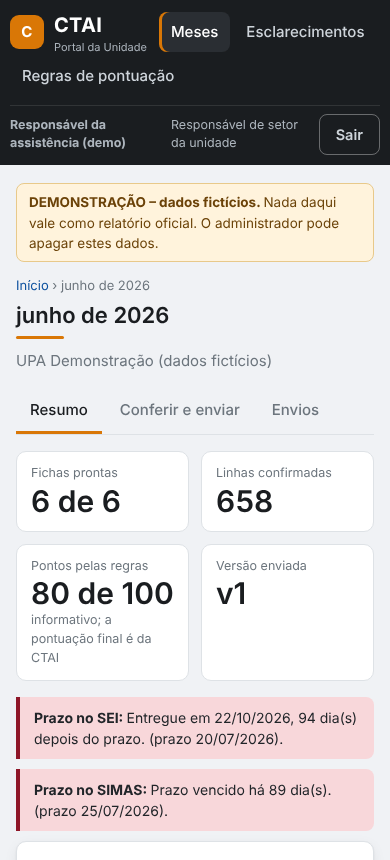
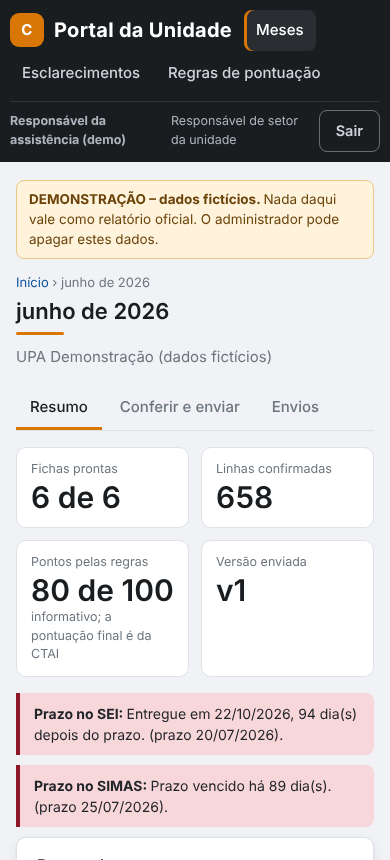
Etapa 1: menu Unidades/Editor de Documentos/Mensagens, unidades agrupadas por tipo com busca, nomes sem CTAI repetido, Regras e Auditoria só na gestão; testes independentes do fuso
Claude-Session: https://claude.ai/code/session_01TePQBrxAiH7ZoxMsBLHw5s

diff --git a/public/js/ctai.js b/public/js/ctai.js
@@ -11,17 +11,37 @@
   const pdfLink = (url, rotulo) => h('a', { href: url, target: '_blank', rel: 'noopener' }, rotulo || 'Abrir PDF');
 
   // ---------- Painel ----------
-  async function painel() {
-    const r = await api('GET', '/api/ctai/contratos');
-    const pareceres = await api('GET', '/api/ctai/pareceres');
-    montar(h('div', { class: 'topo' }, h('div', null, h('h1', null, 'Painel da CTAI'), h('p', null, 'Envios recebidos, divergências abertas e pareceres em andamento.'))),
-      r.contratos.map((c) => window.CTAI.recolher('painel:' + c.contrato_id,
+  const cartaoUnidade = (c) => window.CTAI.recolher('painel:' + c.contrato_id,
         h('span', null, c.unidade, ' ', c.demo ? selo('demonstração', 'demo') : null),
         h('span', null, c.competencias.length + ' mês(es) · ' + c.competencias.reduce((n, k) => n + (k.divergenciasAbertas || 0), 0) + ' divergência(s) aberta(s) ', c.decisoesAbertas ? selo(c.decisoesAbertas + ' dúvida(s) de regra', 'atencao') : null),
         h('div', null,
           h('p', { class: 'mudo peq', style: 'margin-top:0' }, c.oss + ' · ' + (c.numero_cg || ''), c.decisoesAbertas ? [' · ', h('a', { href: '#/regras/' + c.contrato_id }, 'ver dúvidas de regra')] : null),
         tabela([{ t: 'Mês' }, { t: 'Situação' }, { t: 'Envio' }, { t: 'Recebido em' }, { t: 'Prazos' }, { t: 'Divergências abertas', n: true }, { t: '' }],
-          c.competencias.map((k) => [fmt.comp(k.competencia_id) + (k.mes_implantacao ? ' (implantação)' : ''), selo(k.status, SITU[k.status] || ''), k.versaoEnvio ? h('span', null, 'v' + k.versaoEnvio, k.seiAlertas ? [' ', h('a', { href: '#/c/' + k.cid + '/envios', title: 'Alerta entre o sistema e o SEI' }, selo('SEI: ' + k.seiAlertas + ' alerta(s)', 'atencao'))] : null) : '—', fmt.data(k.recebido_em), k.prazos ? selo(k.prazos.texto, k.prazos.nivel === 'alta' ? 'alta' : (k.prazos.nivel === 'atencao' ? 'atencao' : (k.prazos.nivel === 'ok' ? 'ok' : ''))) : '—', String(k.divergenciasAbertas), h('a', { href: '#/c/' + k.cid }, 'Abrir')]))))),
+          c.competencias.map((k) => [fmt.comp(k.competencia_id) + (k.mes_implantacao ? ' (implantação)' : ''), selo(k.status, SITU[k.status] || ''), k.versaoEnvio ? h('span', null, 'v' + k.versaoEnvio, k.seiAlertas ? [' ', h('a', { href: '#/c/' + k.cid + '/envios', title: 'Alerta entre o sistema e o SEI' }, selo('SEI: ' + k.seiAlertas + ' alerta(s)', 'atencao'))] : null) : '—', fmt.data(k.recebido_em), k.prazos ? selo(k.prazos.texto, k.prazos.nivel === 'alta' ? 'alta' : (k.prazos.nivel === 'atencao' ? 'atencao' : (k.prazos.nivel === 'ok' ? 'ok' : ''))) : '—', String(k.divergenciasAbertas), h('a', { href: '#/c/' + k.cid }, 'Abrir')]))));
+  const TIPOS = [['HOSPITAL', 'Hospitais'], ['UPA', 'UPAs'], ['UPAE', 'UPAEs']];
+  const semAcento = (t) => String(t || '').normalize('NFD').replace(/[\u0300-\u036f]/g, '').toLowerCase();
+  // Unidades agrupadas por tipo, em ordem alfabética, com busca por nome.
+  function listaUnidades(contratos, cartao) {
+    const busca = h('input', { type: 'search', id: 'un-busca', placeholder: 'Buscar unidade pelo nome…', 'aria-label': 'Buscar unidade' });
+    const grupos = TIPOS.map(([t, nome]) => [nome, contratos.filter((c) => (c.tipo || '') === t)]).concat([['Outras unidades', contratos.filter((c) => !TIPOS.some(([t]) => t === (c.tipo || '')))]]).filter(([, l]) => l.length);
+    const blocos = grupos.map(([nome, lista]) => {
+      const itens = lista.slice().sort((x, y) => x.unidade.localeCompare(y.unidade, 'pt-BR')).map((c) => ({ c, el: cartao(c) }));
+      const rotulo = h('h2', { class: 'grupo-un' }, nome, h('span', { class: 'mudo peq' }, ' ' + itens.length));
+      return { rotulo, itens, el: h('section', null, rotulo, itens.map((i) => i.el)) };
+    });
+    const vazio = h('p', { class: 'mudo', hidden: true }, 'Nenhuma unidade com esse nome.');
+    busca.addEventListener('input', () => {
+      const q = semAcento(busca.value.trim()); let total = 0;
+      blocos.forEach((b) => { let n = 0; b.itens.forEach((i) => { const ok = !q || semAcento(i.c.unidade + ' ' + (i.c.oss || '')).includes(q); i.el.hidden = !ok; if (ok) n++; }); b.el.hidden = !n; total += n; });
+      vazio.hidden = total > 0;
+    });
+    return h('div', null, h('div', { class: 'busca-un' }, busca), blocos.map((b) => b.el), vazio);
+  }
+  async function painel() {
+    const r = await api('GET', '/api/ctai/contratos');
+    const pareceres = await api('GET', '/api/ctai/pareceres');
+    montar(h('div', { class: 'topo' }, h('div', null, h('h1', null, 'Unidades'), h('p', null, 'Escolha uma unidade para ver os envios, as divergências e os documentos dela.'))),
+      listaUnidades(r.contratos, cartaoUnidade),
       h('div', { class: 'cartao' }, h('div', { class: 'linha espaco' }, h('h2', { style: 'margin:0' }, 'Pareceres'), h('a', { class: 'btn sec', href: '#/pareceres' }, 'Ver todos')),
         tabela([{ t: 'Parecer' }, { t: 'Trimestre' }, { t: 'Criado por' }, { t: 'Situação' }], pareceres.pareceres.slice(0, 5).map((p) => [h('a', { href: '#/p/' + p.parecer_id }, p.titulo), p.trimestre, p.criador_nome, selo(p.status + (p.ultimaVersao ? ' (v' + p.ultimaVersao.numero + ')' : ''), p.status === 'anexado ao SEI' || p.status === 'autorizado' ? 'ok' : 'atencao')]), { vazio: 'Nenhum parecer aberto.' })));
   }
@@ -132,7 +152,7 @@
     if (!d.divergencias.length) return h('p', { class: 'vazio' }, 'Nenhuma divergência registrada.');
     return h('div', null, h('p', { class: 'mudo' }, d.divergencias.length + ' divergência(s). Decidir uma divergência exige uma observação, que fica na trilha.'),
       d.divergencias.map((x) => h('div', { class: 'cartao' }, h('div', { class: 'linha espaco' }, h('strong', null, x.tema), h('div', { class: 'linha' }, seloGrav(x.gravidade), selo(x.origem === 'leitura' ? 'lida nos documentos' : (x.origem === 'acervo' ? 'conferência com o acervo' : 'recálculo')))),
-        h('div', { class: 'duas peq', style: 'margin-top:6px' }, h('div', null, h('span', { class: 'mudo' }, x.origem === 'acervo' ? 'No sistema da CTAI: ' : 'Declarado: '), x.declarado ?? '—'), h('div', null, h('span', { class: 'mudo' }, x.origem === 'acervo' ? 'No acervo: ' : 'Recalculado: '), x.recalculado ?? '—')),
+        h('div', { class: 'duas peq', style: 'margin-top:6px' }, h('div', null, h('span', { class: 'mudo' }, x.origem === 'acervo' ? 'No sistema: ' : 'Declarado: '), x.declarado ?? '—'), h('div', null, h('span', { class: 'mudo' }, x.origem === 'acervo' ? 'No acervo: ' : 'Recalculado: '), x.recalculado ?? '—')),
         x.observacao ? h('p', { class: 'peq' }, x.observacao) : null,
         h('div', { class: 'linha', style: 'margin-top:8px' }, h('label', { style: 'margin:0;font-weight:400' }, 'Situação '), h('select', { 'aria-label': 'Situação da divergência', id: 'dv' + x.divergencia_id }, STATUS_DIV.map((s) => h('option', { value: s, selected: s === x.status }, s))),
           h('button', { class: 'sec', onclick: async () => {
@@ -213,7 +233,7 @@
     const alertas = cn.alertas.map((a) => aviso(a.gravidade === 'alta' ? 'erro' : 'atencao', h('strong', null, 'Sistema × SEI: '), a.mensagem));
     const tabelaCanais = h('div', { class: 'cartao' }, h('h3', null, 'Os dois canais, versão por versão'),
       h('p', { class: 'mudo peq' }, 'Enquanto não há API do SEI, o elo é o número do documento que o gestor da unidade registra depois de anexar e assinar. O código curto é o mesmo que aparece no rodapé do PDF.'),
-      tabela([{ t: 'Versão', n: true }, { t: 'No sistema da CTAI' }, { t: 'No SEI (registrado pela unidade)' }, { t: 'Situação' }, { t: 'PDF' }],
+      tabela([{ t: 'Versão', n: true }, { t: 'No sistema' }, { t: 'No SEI (registrado pela unidade)' }, { t: 'Situação' }, { t: 'PDF' }],
         cn.versoes.map((v) => ['v' + v.versao,
           h('div', null, h('div', null, 'Recebido em ' + fmt.data(v.recebido_em || v.enviado_em)), h('div', { class: 'peq mudo' }, 'por ' + v.enviado_por + ' · ' + (v.motivo || 'primeiro envio')), h('div', { class: 'peq' }, 'Rodapé: Versão v' + v.versao + ' · ', h('code', null, v.hash_curto))),
           v.sei ? h('div', null, h('div', null, 'SEI nº ', h('strong', null, v.sei.numero)), h('div', { class: 'peq mudo' }, 'registrado por ' + v.sei.registrado_por + ' em ' + fmt.data(v.sei.registrado_em) + (v.sei.correcoes ? ' · corrigido ' + v.sei.correcoes + ' vez(es): ' + v.sei.motivo_ultima_correcao : '')))
@@ -481,7 +501,7 @@
         h('p', { class: 'peq mudo' }, 'Documento: Parecer Técnico CTAI. O texto-padrão já vem preenchido com os dados da unidade e do período.'), h('label', { style: 'font-weight:400' }, branco, ' Começar em branco (preenchimento manual)'),
         h('button', { onclick: async () => { try { const o = await api('POST', '/api/ctai/pareceres', { contrato_id: sel.value, trimestre: triVal(), numero_parecer: num.value, competencias: [...comps.querySelectorAll('input:checked')].map((x) => x.value) }); await api('POST', '/api/ctai/pareceres/' + o.parecer_id + '/modelo', { modo: branco.checked ? 'branco' : 'padrao' }); location.hash = '#/p/' + o.parecer_id; } catch (e) { toast(e.message, true); } } }, 'Criar a minuta'));
     };
-    montar(h('div', { class: 'topo' }, h('div', null, h('h1', null, 'Redator CTAI'), h('p', null, 'Aqui o parecer é redigido. Quem cria monta e congela; os colegas conferem; a superintendente autoriza; quem criou anexa no SEI.'))), abasRedator('pareceres'),
+    montar(h('div', { class: 'topo' }, h('div', null, h('h1', null, 'Editor de Documentos'), h('p', null, 'Aqui o parecer é redigido. Quem cria monta e congela; os colegas conferem; a superintendente autoriza; quem criou anexa no SEI.'))), abasRedator('pareceres'),
       podeCriar || ehAdmin() ? formNovo() : aviso('info', 'Só o perfil criador abre uma minuta nova.'),
       h('div', { class: 'cartao' }, tabela([{ t: 'Parecer' }, { t: 'Unidade' }, { t: 'Trimestre' }, { t: 'Criado por' }, { t: 'Versão' }, { t: 'Situação' }], lista.pareceres.map((p) => [h('a', { href: '#/p/' + p.parecer_id }, p.titulo), p.unidade + (p.demo ? ' (demo)' : ''), p.trimestre, p.criador_nome, p.ultimaVersao ? 'v' + p.ultimaVersao.numero + ' · ' + p.ultimaVersao.status : '—', selo(p.status, p.status === 'anexado ao SEI' ? 'ok' : 'atencao')]), { vazio: 'Nenhum parecer ainda.' })));
   }
@@ -498,7 +518,7 @@
     const marcados = nCol.map((u) => h('input', { type: 'checkbox', value: u.usuario_id, checked: true, id: 'cv-' + u.usuario_id }));
     const motivo = h('textarea', { id: 'cv-motivo', rows: 2, placeholder: ult ? 'O que mudou desde a versão ' + ult.numero + '?' : 'Opcional na primeira versão' });
     const achadosMin = h('div');
-    montar(demo(P.demo), migalha(h('a', { href: '#/pareceres' }, 'Redator CTAI'), P.titulo),
+    montar(demo(P.demo), migalha(h('a', { href: '#/pareceres' }, 'Editor de Documentos'), P.titulo),
       h('div', { class: 'topo' }, h('div', null, h('h1', null, P.titulo), h('p', null, P.unidade + ' · ' + P.trimestre + (P.numero_parecer ? ' · parecer ' + P.numero_parecer : ''))), h('div', { class: 'linha' }, selo(P.status, P.status === 'anexado ao SEI' || P.status === 'autorizado' ? 'ok' : 'atencao'), ult ? h('a', { class: 'btn', href: '#/v/' + ult.versao_id }, 'Abrir a mesa (v' + ult.numero + ')') : null)),
       d.alteradoDesdeCongelamento && ult && !travado ? aviso('atencao', h('strong', null, 'A minuta mudou desde a versão ' + ult.numero + '. '), 'Para os colegas conferirem a mudança, congele uma nova versão com o motivo.') : null,
       !eCriador ? aviso('info', 'Você vê esta minuta, mas só quem a criou altera. Para conferir, abra a mesa.') : null,
@@ -549,7 +569,7 @@
     const minhas = (it) => it.registros.find((r) => r.usuario_id === EU.usuario_id);
     const marcar = async (item, status) => { let comentario = null; if (status === 'reparo') { comentario = await perguntar('Reparo: ' + item.titulo, 'O que precisa mudar?', { longo: true, botao: 'Registrar reparo' }); if (!comentario) return; } try { await api('POST', '/api/ctai/versoes/' + V.versao_id + '/conferir', { item: item.id, status, comentario }); mesa(p); } catch (e) { toast(e.message, true); } };
     const todosOkMeus = v.itens.every((i) => { const m = minhas(i); return m && m.status === 'ok'; });
-    montar(demo(c.identificacao.demo), migalha(h('a', { href: '#/pareceres' }, 'Redator CTAI'), h('a', { href: '#/p/' + V.parecer_id }, c.identificacao.titulo), 'Mesa v' + V.numero),
+    montar(demo(c.identificacao.demo), migalha(h('a', { href: '#/pareceres' }, 'Editor de Documentos'), h('a', { href: '#/p/' + V.parecer_id }, c.identificacao.titulo), 'Mesa v' + V.numero),
       h('div', { class: 'topo' }, h('div', null, h('h1', null, 'Mesa de conferência · versão ' + V.numero), h('p', null, c.identificacao.unidade + ' · ' + c.identificacao.trimestre + ' · criada por ' + V.criada_por_nome + ' em ' + fmt.data(V.criada_em))), selo(V.status, V.status === 'autorizada' ? 'ok' : (V.status === 'com reparo' ? 'alta' : 'atencao'))),
       aviso('info', h('strong', null, 'O OK da mesa é controle interno, não é assinatura. '), 'A assinatura é feita no SEI. Ninguém confere nem autoriza o próprio trabalho. Código de integridade desta versão: ', h('code', null, V.hash.slice(0, 16))),
       V.motivo ? h('p', { class: 'peq' }, h('strong', null, 'Motivo desta versão: '), V.motivo) : null,
@@ -575,7 +595,7 @@
   const abasRedator = (ativo) => h('div', { class: 'abas', id: 'abas-redator' }, ABAS_RED.map(([k, r, href]) => h('a', { href, class: ativo === k ? 'ativo' : '' }, r)));
   async function analista(p) {
     const aba = (p && p.aba) || '';
-    const topo = [h('div', { class: 'topo' }, h('div', null, h('h1', null, 'Redator CTAI'), h('p', null, 'Lê o que a unidade enviou, confere contra o recálculo e o acervo, aponta o que merece esclarecimento e monta o relatório trimestral. Quem decide é a equipe.'))),
+    const topo = [h('div', { class: 'topo' }, h('div', null, h('h1', null, 'Editor de Documentos'), h('p', null, 'Lê o que a unidade enviou, confere contra o recálculo e o acervo, aponta o que merece esclarecimento e monta o relatório trimestral. Quem decide é a equipe.'))),
       abasRedator(aba)];
     const corpo = { '': anFila, relatorio: anRelatorio, conferencia: anConferencia, ler: anLer, normas: anNormas }[aba];
     if (!corpo) throw new Error('Página não encontrada.');
@@ -619,10 +639,10 @@
       try {
         const o = await api('POST', '/api/analista/competencias/' + cid + '/acervo/conferir', {});
         troca(saida, h('div', { class: 'cartao' }, h('h3', null, 'Resultado'), h('p', { class: 'peq mudo' }, 'Fonte: ' + o.fonte + ' · ' + o.comparados + ' indicador(es) comparado(s) · ' + o.divergentes + ' divergente(s). As divergências foram para a aba Divergências da competência.'),
-          tabela([{ t: 'Item' }, { t: 'No sistema da CTAI', n: true }, { t: 'No acervo', n: true }, { t: 'Diferença', n: true }, { t: 'Situação' }], o.itens.map((x) => [x.indicador_id, fmt.valor(x.sistema), fmt.valor(x.acervo), fmt.valor(x.diferenca), x.confere ? selo('confere', 'ok') : selo('divergente', 'atencao')]), { vazio: 'Nenhum indicador em comum.' })));
+          tabela([{ t: 'Item' }, { t: 'No sistema', n: true }, { t: 'No acervo', n: true }, { t: 'Diferença', n: true }, { t: 'Situação' }], o.itens.map((x) => [x.indicador_id, fmt.valor(x.sistema), fmt.valor(x.acervo), fmt.valor(x.diferenca), x.confere ? selo('confere', 'ok') : selo('divergente', 'atencao')]), { vazio: 'Nenhum indicador em comum.' })));
       } catch (e) { troca(saida, aviso('erro', e.message)); }
     };
-    return [aviso('info', 'O acervo é uma fonte ', h('strong', null, 'opcional'), ' de conferência (SIMAS ou outro banco da SES), só leitura. O sistema compara o que a unidade enviou, já recalculado pela CTAI, com o que o acervo tem do mesmo mês.'),
+    return [aviso('info', 'O acervo é uma fonte ', h('strong', null, 'opcional'), ' de conferência (SIMAS ou outro banco da SES), só leitura. O sistema compara o que a unidade enviou, já recalculado, com o que o acervo tem do mesmo mês.'),
       pn.contratos.map((c) => h('div', { class: 'cartao' }, h('div', { class: 'linha espaco' }, h('h3', { style: 'margin:0' }, c.unidade, ' ', c.demo ? selo('demonstração', 'demo') : null),
         c.acervo && c.acervo.ativo ? selo('acervo ativo' + (c.acervo.ultima_sync ? ' · última conferência ' + fmt.data(c.acervo.ultima_sync) : ''), 'ok') : selo('acervo não configurado')),
         c.competencias.length ? tabela([{ t: 'Mês' }, { t: 'Situação' }, { t: '' }], c.competencias.map((k) => [fmt.comp(k.competencia_id), k.status, k.temEnvio && c.acervo && c.acervo.ativo && EU.perfil !== 'colega' ? h('button', { class: 'sec', onclick: () => conferir(k.cid) }, 'Conferir com o acervo') : h('span', { class: 'mudo peq' }, k.temEnvio ? 'sem acervo ativo' : 'sem envio')])) : h('p', { class: 'vazio' }, 'Sem competências.'))),
@@ -759,7 +779,7 @@
   // ---------- Trilha e administração ----------
   async function trilha() {
     const [t, v] = await Promise.all([api('GET', '/api/ctai/trilha?limite=200'), api('GET', '/api/ctai/trilha/verificar')]);
-    montar(h('div', { class: 'topo' }, h('div', null, h('h1', null, 'Trilha de auditoria'), h('p', null, 'Registro que só cresce: cada evento guarda o código do anterior. Alterar ou apagar um evento quebra a cadeia.'))),
+    montar(h('div', { class: 'topo' }, h('div', null, h('h1', null, 'Auditoria'), h('p', null, 'Registro que só cresce: cada evento guarda o código do anterior. Alterar ou apagar um evento quebra a cadeia.'))),
       v.ok ? aviso('ok', h('strong', null, 'Cadeia íntegra. '), v.total + ' eventos conferidos.') : aviso('erro', h('strong', null, 'A cadeia foi quebrada. '), h('ul', null, v.falhas.slice(0, 10).map((f) => h('li', null, 'Evento ' + f.evento_id + ': ' + f.problema)))),
       h('div', { class: 'cartao' }, tabela([{ t: '#', n: true }, { t: 'Quando' }, { t: 'Quem' }, { t: 'Onde' }, { t: 'Campo' }, { t: 'Antes' }, { t: 'Depois' }, { t: 'Motivo' }], t.eventos.map((e) => [String(e.evento_id), fmt.data(e.data_hora), e.usuario, e.tabela + ' ' + e.registro, e.campo || '', (e.valor_anterior || '').slice(0, 60), (e.valor_novo || '').slice(0, 80), e.motivo || '']))));
   }
@@ -783,8 +803,8 @@
     const me0 = await api('GET', '/api/auth/me').catch(() => null);
     const meta0 = await api('GET', '/api/meta').catch(() => null);
     window.__semPainel = !!(me0 && ['criador', 'colega'].includes(me0.usuario.perfil) && meta0 && !meta0.painelAnalista);
-    window.__soGestao = me0 && ['superintendente', 'admin'].includes(me0.usuario.perfil) ? [{ href: '#/gestao', rotulo: 'Gestão CTAI' }, { href: '#/integracoes', rotulo: 'Fontes de dados' }] : [];
-    EU = await casca({ titulo: 'Analista CTAI', subtitulo: '', perfis: ['admin', 'criador', 'colega', 'superintendente'], itens: (window.__semPainel ? [] : [{ href: '#/', rotulo: 'Painel' }]).concat([{ href: '#/caixa', rotulo: 'Caixa de entrada' }, { href: '#/pareceres', rotulo: 'Redator CTAI' }, { href: '#/regras', rotulo: 'Regras e decisões' }, { href: '#/trilha', rotulo: 'Trilha' }]).concat(window.__soGestao || []).concat([{ href: '#/mensageiro', rotulo: 'Mensageiro', classe: 'fim' }]) });
+    window.__soGestao = me0 && ['superintendente', 'admin'].includes(me0.usuario.perfil) ? [{ href: '#/gestao', rotulo: 'Gestão' }, { href: '#/regras', rotulo: 'Regras e decisões' }, { href: '#/integracoes', rotulo: 'Fontes de dados' }, { href: '#/trilha', rotulo: 'Auditoria' }] : [];
+    EU = await casca({ titulo: 'Analista CTAI', subtitulo: '', perfis: ['admin', 'criador', 'colega', 'superintendente'], itens: (window.__semPainel ? [] : [{ href: '#/', rotulo: 'Unidades' }]).concat([{ href: '#/caixa', rotulo: 'Caixa de entrada' }, { href: '#/pareceres', rotulo: 'Editor de Documentos' }]).concat(window.__soGestao || []).concat([{ href: '#/mensageiro', rotulo: 'Mensagens', classe: 'fim' }]) });
     if (!EU) return;
     window.__eu = EU;
     window.CTAI_CAIXA.atualizarContador(); window.CTAI_MENSAGEIRO.atualizarContador(); setInterval(() => { window.CTAI_CAIXA.atualizarContador(); window.CTAI_MENSAGEIRO.atualizarContador(); }, 60000);

diff --git a/test/e2e/run.js b/test/e2e/run.js
@@ -107,7 +107,7 @@ let base;
     // 2b. Analista CTAI: fila, encaminhar à unidade, resposta, normas, acervo e relatório trimestral
     await api(cri, 'POST', '/api/analista/analisar', { cid: cid06, salvar: true, texto: 'O valor foi R$ 1.000,00 (dois mil reais). Foram 63 de 100 (70%) casos no tempo de espera do atendimento vermelho.' });
     await ir(cri, '#/analista', 'text=O que pede ação');
-    assert.match(await cri.textContent('#conteudo'), /Redator CTAI/); assert.equal(await cri.locator('#abas-redator a').count(), 6, 'abas unificadas do Redator');
+    assert.match(await cri.textContent('#conteudo'), /Editor de Documentos/); assert.equal(await cri.locator('#abas-redator a').count(), 6, 'abas unificadas do Redator');
     assert.equal(await cri.locator('.lateral a.nav', { hasText: 'Analista CTAI' }).count(), 0, 'sem item Analista CTAI no menu');
     await ir(cri, '#/analista/ler', '#an-importar'); await ir(cri, '#/analista', 'text=O que pede ação');
     await cri.setViewportSize({ width: 1280, height: 1300 }); await limpa(cri); await cri.screenshot({ path: path.join(CAP, '10-analista-fila.png') });
@@ -149,7 +149,7 @@ let base;
     await cri.selectOption('#ck-v', 'com divergências'); await cri.fill('#ck-o', 'Relatório da comissão chegou sem a ata da revisão.');
     await dialogo(cri, 'Salvar'); await cri.waitForSelector('text=decidido por cleuton', { timeout: 6000 });
     await cri.setViewportSize({ width: 1280, height: 1500 }); await cri.evaluate(() => window.scrollTo(0, 0)); await limpa(cri); await cri.screenshot({ path: path.join(CAP, '17-ctai-checklist.png' ) }); await cri.setViewportSize({ width: 1280, height: 860 });
-    await ir(cri, '#/', 'text=Painel da CTAI'); assert.equal(await cri.locator('.rec.aberto').count(), 0, 'cartões do Painel começam fechados'); await cri.click('.rec-cab >> nth=0'); assert.ok(await cri.locator('.rec.aberto').count() >= 1); assert.match(await cri.textContent('#conteudo'), /Prazos/);
+    await ir(cri, '#/', 'text=Unidades'); assert.equal(await cri.locator('.rec.aberto').count(), 0, 'cartões do Painel começam fechados'); await cri.click('.rec-cab >> nth=0'); assert.ok(await cri.locator('.rec.aberto').count() >= 1); assert.match(await cri.textContent('#conteudo'), /Prazos/);
     log('prazos informados pela unidade e checklist de recebimento editado pela CTAI');
     for (const [k, v] of [['desconto_modo', 'faixa'], ['vermelho', 'faixa']]) await api(cri, 'PUT', '/api/ctai/contratos/DEMO-UPA/decisoes/' + k, { valor: v, justificativa: 'Teste ponta a ponta' });
     await ir(cri, '#/pareceres', '#np-c');
@@ -237,7 +237,7 @@ let base;
     await cri.waitForSelector('text=Nova versão no sistema depois do SEI');
     await limpa(cri); await cri.screenshot({ path: path.join(CAP, '8-ctai-alerta-sei.png') });
     await ir(cri, '#/c/' + cid06, 'text=Recálculo'); assert.match(await cri.textContent('#conteudo'), /Sistema × SEI/);
-    await ir(cri, '#/', 'text=Painel da CTAI'); assert.ok(await cri.locator('.rec.aberto').count() >= 1, 'o que foi aberto continua aberto'); await cri.evaluate(() => document.querySelectorAll('.rec:not(.aberto) .rec-cab').forEach((b) => b.click())); await cri.waitForSelector('text=SEI: 1 alerta(s)');
+    await ir(cri, '#/', 'text=Unidades'); assert.ok(await cri.locator('.rec.aberto').count() >= 1, 'o que foi aberto continua aberto'); await cri.evaluate(() => document.querySelectorAll('.rec:not(.aberto) .rec-cab').forEach((b) => b.click())); await cri.waitForSelector('text=SEI: 1 alerta(s)');
     await gest.evaluate((c) => { location.hash = '#/c/' + c; }, cid06); await gest.waitForSelector('text=Você enviou a v2 depois de registrar o SEI da v1');
     log('nova versão depois do SEI gerou o alerta na CTAI e o aviso na unidade');
 
@@ -265,7 +265,7 @@ let base;
 
     // 6. Gestão CTAI (superintendente): carteira, painel, produção, usuários, IA e PDF do painel
     const sup = await entrar(browser, 'nathalia', 1280, true); paginas.push(sup);
-    await sup.waitForSelector('a.nav:has-text("Gestão CTAI")');
+    await sup.waitForSelector('a.nav:has-text("Gestão")');
     await ir(sup, '#/gestao/carteira', 'text=Quem acompanha cada unidade');
     await sup.click('#cart-ed-colega1'); await sup.waitForSelector('dialog[open] #ck-DEMO-UPA'); await sup.check('#ck-DEMO-UPA'); await sup.fill('#ck-motivo', 'Distribuição inicial'); await dialogo(sup, 'Salvar carteira'); await sup.waitForSelector('text=Carteira atualizada.');
     await sup.click('#cart-ed-cleuton'); await sup.waitForSelector('dialog[open] #ck-UPA-OLINDA'); await sup.check('#ck-UPA-OLINDA'); await sup.check('#ck-DEMO-UPA'); await dialogo(sup, 'Salvar carteira'); await sup.waitForSelector('text=Carteira atualizada.');
@@ -290,7 +290,7 @@ let base;
     assert.doesNotMatch(await sup.content(), /sk-demo-NAO-REAL/, 'a chave nunca aparece na tela');
     await sup.setViewportSize({ width: 1280, height: 1500 }); await limpa(sup); await sup.screenshot({ path: path.join(CAP, '22-gestao-ia.png') });
     const colegaCart = await entrar(browser, 'colega1', 1280, true); paginas.push(colegaCart);
-    await colegaCart.waitForSelector('#conteudo h1'); assert.doesNotMatch(await colegaCart.textContent('#conteudo'), /Olinda/); assert.equal(await colegaCart.locator('a.nav:has-text("Gestão CTAI")').count(), 0);
+    await colegaCart.waitForSelector('#conteudo h1'); assert.doesNotMatch(await colegaCart.textContent('#conteudo'), /Olinda/); assert.equal(await colegaCart.locator('a.nav:has-text("Gestão")').count(), 0);
     log('Gestão CTAI: carteira, painel com filtros, PDF, produção, usuários e IA; o colega só vê a carteira dele');
 
     // 7. Portal da Unidade: o gestor cuida da equipe; Gestão CTAI: aba Acessos
@@ -349,15 +349,15 @@ let base;
     const an = await entrar(browser, 'colega1', 1280, true); paginas.push(an);
     await an.waitForSelector('#cx-resumo', { timeout: 8000 });
     assert.match(an.url(), /#\/caixa$/, 'analista começa na Caixa de entrada');
-    assert.equal(await an.locator('a.nav:text-is("Painel")').count(), 0, 'sem item Painel para o analista');
+    assert.equal(await an.locator('a.nav:text-is("Unidades")').count(), 0, 'sem item Painel para o analista');
     assert.ok(await an.locator('#cx-resumo a').count() >= 4, 'faixa de resumo com atalhos');
     await an.setViewportSize({ width: 1280, height: 900 }); await limpa(an); await an.screenshot({ path: path.join(CAP, '30-inicio-analista-caixa.png') });
     await an.goto(base + '/ctai#/'); await an.waitForSelector('#cx-resumo', { timeout: 8000 }); assert.match(an.url(), /#\/caixa$/, 'link antigo do Painel redireciona sem erro');
     const sup2 = await entrar(browser, 'nathalia', 1280, true); paginas.push(sup2);
-    await sup2.waitForSelector('#conteudo h1', { timeout: 8000 }); assert.match(await sup2.textContent('#conteudo h1'), /Painel/, 'inicio superintendente: ' + sup2.url()); assert.equal(await sup2.locator('a.nav:text-is("Painel")').count(), 1, 'superintendente mantém o Painel');
+    await sup2.waitForSelector('#conteudo h1', { timeout: 8000 }); assert.match(await sup2.textContent('#conteudo h1'), /Unidades/, 'inicio superintendente: ' + sup2.url()); assert.equal(await sup2.locator('a.nav:text-is("Unidades")').count(), 1, 'superintendente mantém o Painel');
     CFG.painelAnalista = true;
-    await an.goto(base + '/ctai?v=2#/'); await an.waitForSelector('#conteudo h1', { timeout: 8000 }); assert.match(await an.textContent('#conteudo h1'), /Painel/, 'painel de volta: ' + an.url());
-    assert.equal(await an.locator('a.nav:text-is("Painel")').count(), 1, 'configuração devolve o Painel ao analista');
+    await an.goto(base + '/ctai?v=2#/'); await an.waitForSelector('#conteudo h1', { timeout: 8000 }); assert.match(await an.textContent('#conteudo h1'), /Unidades/, 'painel de volta: ' + an.url());
+    assert.equal(await an.locator('a.nav:text-is("Unidades")').count(), 1, 'configuração devolve o Painel ao analista');
     CFG.painelAnalista = false;
     log('tela inicial por perfil: analista na Caixa de entrada, superintendente no Painel, configuração de volta');
     for (const p of paginas) assert.deepEqual(p.erros, [], 'erros de JavaScript na tela: ' + p.erros.join(' | '));

diff --git a/public/js/gestao.js b/public/js/gestao.js
@@ -1,6 +1,6 @@
 (function () {
   'use strict';
-  // Gestão CTAI: painel da superintendente, produção, carteira, usuários e IA. Só superintendente e administrador.
+  // Gestão: painel da superintendente, produção, carteira, usuários e IA. Só superintendente e administrador.
   const { h, api, fmt, toast, janela, confirmar, selo, aviso, tabela, montar } = window.CTAI;
   const ABAS = [['', 'Painel'], ['producao', 'Produção'], ['carteira', 'Carteira'], ['entregas', 'Entregas por carteira'], ['importar', 'Importar'], ['usuarios', 'Usuários'], ['acessos', 'Acessos'], ['ia', 'IA']];
   const kpi = (r, v, nota, tom) => h('div', { class: 'kpi' + (tom ? ' ' + tom : '') }, h('div', { class: 'r' }, r), h('div', { class: 'num-grande' }, String(v)), nota ? h('div', { class: 'r' }, nota) : null);
@@ -14,7 +14,7 @@
   const tomEnvio = { recebido: 'ok', incompleto: 'atencao', pendente: 'alta' };
 
   function cabecalho(aba) {
-    return [h('div', { class: 'topo' }, h('div', null, h('h1', null, 'Gestão CTAI'), h('p', null, 'Equipe, carteira de unidades, IA e acompanhamento da superintendência. Só a superintendente e o administrador veem esta área.'))),
+    return [h('div', { class: 'topo' }, h('div', null, h('h1', null, 'Gestão'), h('p', null, 'Equipe, carteira de unidades, IA e acompanhamento da superintendência. Só a superintendente e o administrador veem esta área.'))),
       h('div', { class: 'abas' }, ABAS.map(([k, r]) => h('a', { href: '#/gestao' + (k ? '/' + k : ''), class: aba === k ? 'ativo' : '' }, r)))];
   }
   const seletor = (id, rotulo, opcoes, valor, aoMudar) => h('div', { class: 'campo filtro' }, h('label', { for: id }, rotulo),

diff --git a/public/js/unidade.js b/public/js/unidade.js
@@ -379,7 +379,7 @@
   async function iniciar() {
     const me0 = await api('GET', '/api/auth/me').catch(() => null);
     const extra = me0 && me0.usuario.perfil === 'gestor_unidade' ? [{ href: '#/equipe', rotulo: 'Equipe da unidade' }] : [];
-    EU = await casca({ titulo: 'CTAI', subtitulo: 'Portal da Unidade', perfis: ['gestor_unidade', 'setor_unidade'], itens: [{ href: '#/', rotulo: 'Meses' }, { href: '#/esclarecimentos', rotulo: 'Esclarecimentos' }, { href: '#/regras', rotulo: 'Regras de pontuação' }].concat(extra) });
+    EU = await casca({ titulo: 'Portal da Unidade', subtitulo: '', perfis: ['gestor_unidade', 'setor_unidade'], itens: [{ href: '#/', rotulo: 'Meses' }, { href: '#/esclarecimentos', rotulo: 'Esclarecimentos' }, { href: '#/regras', rotulo: 'Regras de pontuação' }].concat(extra) });
     if (!EU) return;
     try { const m = await api('GET', '/api/meta'); Object.entries(m.fontes).forEach(([k, v]) => { NOMES_FONTES[k] = v.nome; }); } catch (_) { /* segue */ }
     rotear([['/', inicio], ['/c/:cid', competencia], ['/c/:cid/enviar', enviar], ['/c/:cid/envios', envios], ['/c/:cid/ficha/:setor', ficha], ['/c/:cid/lista/:fonte', lista], ['/esclarecimentos', esclarecimentos], ['/regras', regras], ['/integracao', integracao]].concat(me0 && me0.usuario.perfil === 'gestor_unidade' ? [['/equipe', equipe]] : []), (hash) => window.__marcarMenu && window.__marcarMenu(hash));

diff --git a/test/obrigatorios.test.js b/test/obrigatorios.test.js
@@ -33,7 +33,7 @@ test('lista de obrigatórios cobre os itens oficiais e mantém transferências e
 });
 
 let S, gestor, setorQ, cleuton, colega, admin, cid06, envio1;
-const agora = new Date().toISOString().slice(0, 10);
+const agora = require('../server/prazos').dataLocal();
 
 test.before(async () => {
   S = await iniciar();
@@ -62,7 +62,7 @@ test('prazos aparecem no portal da unidade e o SIMAS é informado pelo gestor, c
   assert.equal(lista.prazos.sei.prazo, '2026-07-20');
   assert.equal(lista.prazos.simas.prazo, '2026-07-25');
   assert.equal(lista.prazos.sei.situacao, 'vencido', 'sem envio e depois do prazo');
-  const amanha = new Date(Date.now() + 2 * 86400000).toISOString().slice(0, 10);
+  const amanha = new Date(Date.parse(agora + 'T12:00:00Z') + 2 * 86400000).toISOString().slice(0, 10);
   assert.equal((await gestor.post('/api/unidade/competencias/' + cid06 + '/simas', { data: amanha })).status, 400, 'data futura');
   assert.equal((await gestor.post('/api/unidade/competencias/' + cid06 + '/simas', { data: '31/07/2026' })).status, 400, 'formato');
   const ok = await gestor.post('/api/unidade/competencias/' + cid06 + '/simas', { data: '2026-07-24' });

diff --git a/public/js/usuario-form.js b/public/js/usuario-form.js
@@ -1,7 +1,7 @@
 (function () {
   'use strict';
   // Formulário único de "Novo usuário": primeiro escolhe CTAI ou Unidade, depois mostra só o que cabe a cada um.
-  // Usado na Administração e na Gestão CTAI.
+  // Usado na Administração e na Gestão.
   const { h, api, toast } = window.CTAI;
   const norm = (s) => String(s || '').normalize('NFD').replace(/[̀-ͯ]/g, '').toLowerCase();
 
@@ -65,7 +65,7 @@
         if (['criador', 'colega'].includes(E.perfil)) {
           partes.push(h('div', { class: 'campo' }, h('label', null, 'Unidades que acompanha (carteira)'),
             pickCarteira || (pickCarteira = seletorUnidades({ contratos: opcoes.contratos, multi: true, aoMudar: (l) => { E.unidades = l; } })),
-            h('div', { class: 'ajuda' }, 'Sem nenhuma marcada, a pessoa vê todas as unidades. Dá para ajustar depois em Gestão CTAI > Carteira.')));
+            h('div', { class: 'ajuda' }, 'Sem nenhuma marcada, a pessoa vê todas as unidades. Dá para ajustar depois em Gestão > Carteira.')));
         } else {
           partes.push(h('p', { class: 'mudo peq' }, 'Este perfil enxerga todas as unidades; não precisa de carteira.'));
         }

diff --git a/test/caixa.test.js b/test/caixa.test.js
@@ -105,7 +105,8 @@ test('resposta da unidade a achado chega à caixa; minuta aguardando conferênci
 
 test('substituição: itens novos vão ao substituto marcados "em substituição de"; validações; trilha; fim do período', async () => {
   const hoje = require('../server/prazos').dataLocal();
-  const amanha = new Date(Date.now() + 864e5).toISOString().slice(0, 10), ontem = new Date(Date.now() - 864e5).toISOString().slice(0, 10);
+  const dia = (n) => new Date(Date.parse(hoje + 'T12:00:00Z') + n * 864e5).toISOString().slice(0, 10); // a partir da data local, para não depender do fuso
+  const amanha = dia(1), ontem = dia(-1);
   // colega2 sai de licença: caixa vai para cleuton (que não tem a Olinda)
   assert.equal((await colega1.post('/api/caixa/substituicoes', { de_usuario_id: ids.colega2, para_usuario_id: ids.cleuton, desde: hoje, ate: amanha })).status, 403, 'colega não redireciona a caixa de outra pessoa');
   assert.equal((await nath.post('/api/caixa/substituicoes', { de_usuario_id: ids.colega2, para_usuario_id: ids.colega2, desde: hoje, ate: amanha })).status, 400);

diff --git a/public/css/app.css b/public/css/app.css
@@ -179,3 +179,9 @@ button:not(.sec):not(.leve):hover,.btn:not(.sec):hover{background:var(--acento-h
 .rec-corpo{padding:4px 18px 18px;border-top:1px solid #e9ecef}
 .lateral a.nav.fim{margin-top:10px;border-top:1px solid rgba(255,255,255,.1);border-radius:0 0 8px 8px;padding-top:12px}
 @media (max-width:760px){.rec-cab{flex-wrap:wrap}.rec-resumo{margin-left:24px;text-align:left;flex-basis:100%}.lateral a.nav.fim{border-top:0;margin-top:0}}
+.busca-un{margin:0 0 14px}
+.busca-un input{width:100%;max-width:420px;padding:10px 14px;border:1px solid var(--borda);border-radius:var(--r);background:#fff;font:inherit}
+.busca-un input:focus{outline:2px solid var(--ambar);outline-offset:1px}
+.grupo-un{font-size:13px;letter-spacing:.06em;text-transform:uppercase;color:var(--cinza);margin:22px 0 10px;font-weight:600}
+.grupo-un .peq{text-transform:none;letter-spacing:0;margin-left:6px}
+[hidden]{display:none!important}

diff --git a/public/sw.js b/public/sw.js
@@ -1,5 +1,5 @@
 /* Service worker: guarda só os arquivos estáticos (telas, fontes, estilos). Nenhuma resposta da API é guardada. */
-const VERSAO = 'ctai-v25';
+const VERSAO = 'ctai-v26';
 const ESTATICOS = ['/', '/unidade', '/ctai', '/css/app.css', '/js/core.js', '/js/login.js', '/js/unidade.js', '/js/ctai.js', '/js/usuario-form.js', '/js/rack-ia.js', '/js/gestao.js', '/js/caixa.js', '/js/mensageiro.js', '/icons/icon.svg'];
 self.addEventListener('install', (e) => { e.waitUntil(caches.open(VERSAO).then((c) => c.addAll(ESTATICOS).catch(() => {})).then(() => self.skipWaiting())); });
 self.addEventListener('activate', (e) => { e.waitUntil(caches.keys().then((ks) => Promise.all(ks.filter((k) => k !== VERSAO).map((k) => caches.delete(k)))).then(() => self.clients.claim())); });

diff --git a/public/js/rack-ia.js b/public/js/rack-ia.js
@@ -1,7 +1,7 @@
 (function () {
   'use strict';
   // Rack de chaves de IA: chaves ilimitadas, todas valem para todos os usuários; a ordem define a tentativa.
-  // Usado na Administração e na Gestão CTAI > IA. A chave nunca volta para a tela: só os 4 últimos caracteres.
+  // Usado na Administração e na Gestão > IA. A chave nunca volta para a tela: só os 4 últimos caracteres.
   const { h, api, fmt, toast, janela, confirmar, selo, aviso, tabela } = window.CTAI;
 
   function rack() {

diff --git a/public/ctai.html b/public/ctai.html
@@ -3,7 +3,7 @@
 <head>
 <meta charset="utf-8">
 <meta name="viewport" content="width=device-width,initial-scale=1">
-<title>Console da CTAI</title>
+<title>Analista CTAI</title>
 <meta name="theme-color" content="#1a1f24">
 <link rel="manifest" href="/manifest.webmanifest">
 <link rel="icon" href="/icons/icon.svg" type="image/svg+xml">
